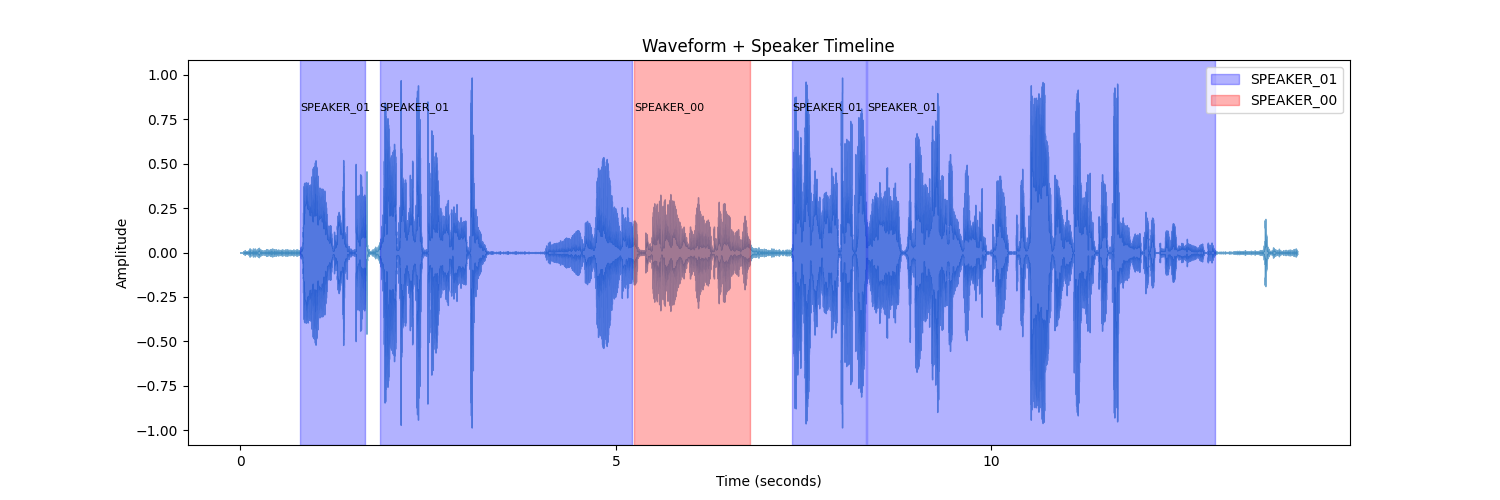
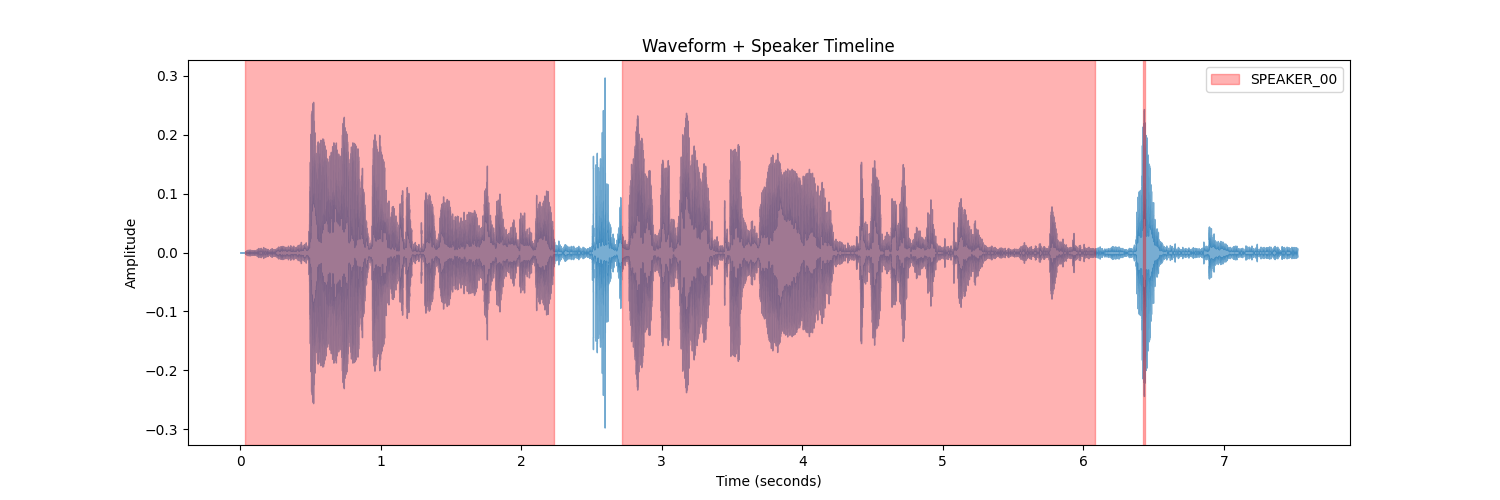
실행 가능 상태 완성
- GPU(CUDA) 기반 whisperx STT가 동작하도록 cuDNN8 런타임 로드 및 PATH 등록 추가
- DiarizationPipeline 잘못된 인자명(token -> use_auth_token) 수정
- requirements.txt를 최소 top-level 의존성 목록으로 정리, 누락된 python-multipart 추가
- 로컬 실행용 .claude/launch.json 추가 (streamlit-dashboard, fastapi-server)
- 실제 오디오 업로드 테스트로 갱신된 시각화 결과물 반영

diff --git a/app/services/stt_service.py b/app/services/stt_service.py
@@ -1,11 +1,22 @@
+import os
+import sys
+
+if sys.platform == "win32":
+    import importlib.util
+    for _pkg in ("nvidia.cudnn", "nvidia.cublas"):
+        _spec = importlib.util.find_spec(_pkg)
+        if _spec and _spec.submodule_search_locations:
+            _bin_dir = os.path.join(list(_spec.submodule_search_locations)[0], "bin")
+            if os.path.isdir(_bin_dir):
+                os.add_dll_directory(_bin_dir)
+                os.environ["PATH"] = _bin_dir + os.pathsep + os.environ.get("PATH", "")
+
 import whisperx
 import torch
 
 from whisperx.diarize import DiarizationPipeline
 
 from dotenv import load_dotenv
-
-import os
 
 load_dotenv()
 
@@ -48,7 +59,7 @@ def transcribe_audio(audio_file_path: str):
 
     # Diarization
     diarize_model = DiarizationPipeline(
-    token=HF_TOKEN,
+    use_auth_token=HF_TOKEN,
     device="cpu"
 )
 
